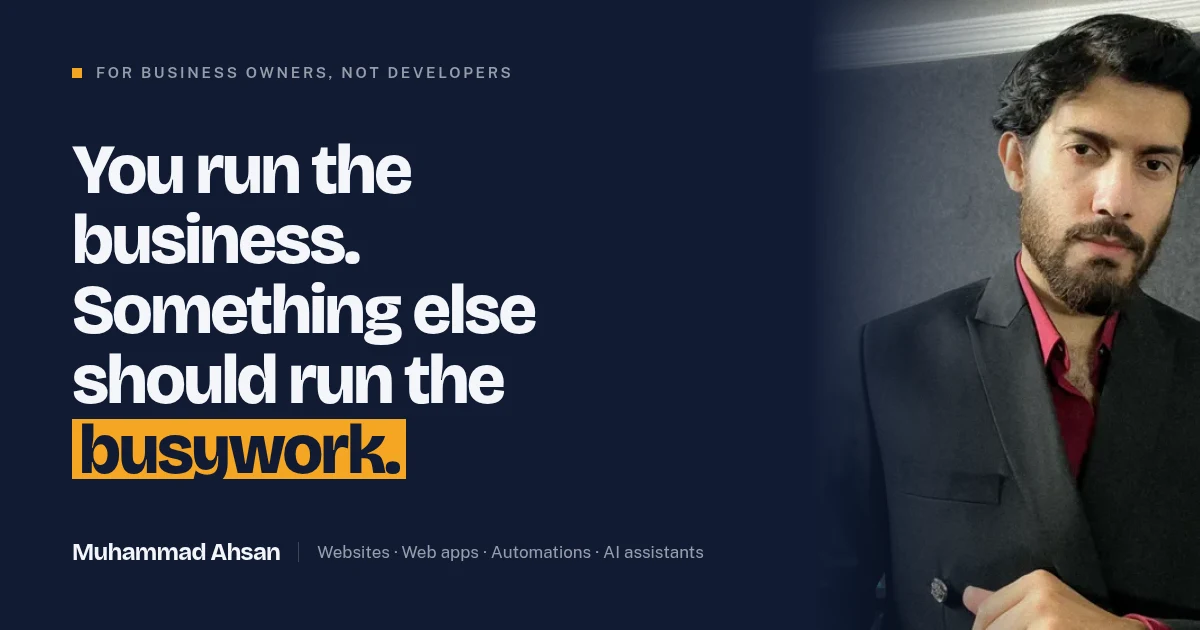
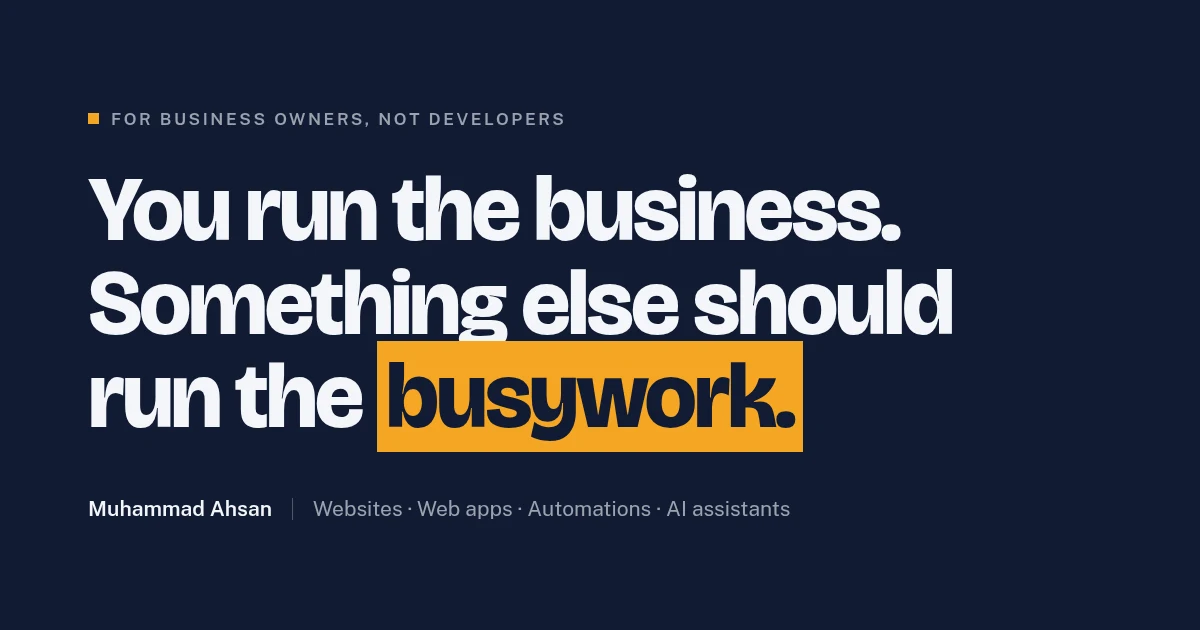
stable

diff --git a/index.html b/index.html
@@ -231,54 +231,83 @@
   <div class="wrap">
     <div class="band-head" data-reveal>
       <p class="sign">Work</p>
-      <h2 class="display">What changed for the business.</h2>
-      <p class="lede">Not which framework was used. That part is my problem, not yours.</p>
+      <h2 class="display">Pick the one that looks like your business.</h2>
+      <p class="lede">Demonstration builds, not client work — a dental practice, a salon, a coffee shop, a restaurant, a knitwear shop. Each one shows how a site for that kind of business handles what actually matters: prices, booking, and the questions customers always ask.</p>
     </div>
 
     <!--
       ─────────────────────────────────────────────────────────────
-      TO ADD A PROJECT: copy this block and fill in the five slots.
-      Drop the <a class="card-link"> line if there's nothing to link to.
+      TO ADD A PROJECT: copy this block and fill in the four slots.
+      Drop the <a class="card-shot"> wrapper if there's no image yet.
       ─────────────────────────────────────────────────────────────
       <article class="card" data-reveal>
-        <span class="tag">INDUSTRY</span>
-        <h3>OUTCOME IN ONE LINE</h3>
-        <dl class="ba">
-          <div><dt>Before</dt><dd>WHAT THEIR DAY LOOKED LIKE</dd></div>
-          <div class="after"><dt>After</dt><dd>WHAT IT LOOKS LIKE NOW</dd></div>
-        </dl>
-        <a class="card-link" href="URL" target="_blank" rel="noopener noreferrer">View the project →</a>
+        <a class="card-shot" href="./work-NAME.webp" data-shot data-caption="PROJECT — WHAT IT IS">
+          <img src="./work-NAME.webp" alt="DESCRIBE WHAT THE SCREENS SHOW" width="1000" height="750" loading="lazy" decoding="async">
+          <span class="zoom">Enlarge</span>
+        </a>
+        <span class="tag">SECTOR</span>
+        <h3>THE DECISION THE DESIGN MAKES</h3>
+        <p class="card-note">ONE SUPPORTING LINE.</p>
       </article>
       ─────────────────────────────────────────────────────────────
     -->
 
     <div class="cards">
       <article class="card" data-reveal>
-        <span class="tag">Food &amp; marketplace</span>
-        <h3>Home cooks got a business, not just a listing</h3>
-        <dl class="ba">
-          <div><dt>Before</dt><dd>Orders, prices and delivery arranged one by one over messages.</dd></div>
-          <div class="after"><dt>After</dt><dd>One app handling bidding, payments and delivery for every chef on it.</dd></div>
-        </dl>
-        <a class="card-link" href="https://github.com/ahsanm7911/homeplate" target="_blank" rel="noopener noreferrer">View HomePlate →</a>
+        <a class="card-shot" href="./work-rivermill.webp" data-shot data-caption="Rivermill Dental Care — demonstration build for a dental practice">
+          <img src="./work-rivermill.webp" alt="Rivermill Dental Care demonstration site, shown on desktop and phone. The homepage opens with the line “It has been a while. That’s all right.” beside an “I’m nervous about this” button, with first-appointment length, price and rating below. Smaller panels show a step-by-step first visit, a nervous-patients page, a price list and the team." width="1000" height="750" loading="lazy" decoding="async">
+          <span class="zoom">Enlarge</span>
+        </a>
+        <span class="tag">Dental practice</span>
+        <h3>Settles the nerves first, then answers the practical bit</h3>
+        <p class="card-note">An “I’m nervous about this” button sits right next to “Book an appointment.”</p>
       </article>
 
       <article class="card" data-reveal>
-        <span class="tag">Tutoring &amp; education</span>
-        <h3>Weekly attendance went from hours to minutes</h3>
-        <dl class="ba">
-          <div><dt>Before</dt><dd>A spreadsheet rebuilt by hand every week, and chased by email.</dd></div>
-          <div class="after"><dt>After</dt><dd>A few clicks, and the register is done and shareable.</dd></div>
-        </dl>
+        <a class="card-shot" href="./work-mara.webp" data-shot data-caption="MARA Hair Studio — demonstration build for a hair salon">
+          <img src="./work-mara.webp" alt="MARA Hair Studio demonstration site, shown on desktop and phone. The homepage reads “Colour that still looks right on week six” beside a photograph of a client, with booking and prices buttons. Smaller panels show a full price list, stylist profiles, a gallery and a booking form." width="1000" height="750" loading="lazy" decoding="async">
+          <span class="zoom">Enlarge</span>
+        </a>
+        <span class="tag">Hair salon</span>
+        <h3>Prices published, so nobody has to ring to ask</h3>
+        <p class="card-note">The full price list, the stylists and the booking form, all on one page.</p>
       </article>
 
       <article class="card" data-reveal>
-        <span class="tag">Data &amp; reporting</span>
-        <h3>Numbers that non-finance staff could read</h3>
-        <dl class="ba">
-          <div><dt>Before</dt><dd>Raw stock data nobody outside finance could interpret.</dd></div>
-          <div class="after"><dt>After</dt><dd>A dashboard the whole team reads without asking what it means.</dd></div>
-        </dl>
+        <a class="card-shot" href="./work-groundfloor.webp" data-shot data-caption="Ground Floor Coffee — demonstration build for a coffee shop">
+          <img src="./work-groundfloor.webp" alt="Ground Floor Coffee demonstration site, shown on desktop and phone. The homepage reads “Your coffee, ready in four minutes” next to a printed order slip, with an open-now banner showing the current wait. Smaller panels show the menu, the beans, the room and a visit-and-order page." width="1000" height="750" loading="lazy" decoding="async">
+          <span class="zoom">Enlarge</span>
+        </a>
+        <span class="tag">Coffee shop</span>
+        <h3>Order on the walk over, skip the queue</h3>
+        <p class="card-note">The current wait is on the page before anyone taps a thing.</p>
+      </article>
+
+      <article class="card" data-reveal>
+        <a class="card-shot" href="./work-sumac.webp" data-shot data-caption="SUMAC — demonstration build for a restaurant">
+          <img src="./work-sumac.webp" alt="SUMAC restaurant demonstration site, shown on desktop and phone. The homepage reads “Everything comes to the middle of the table” over a photograph of a charcoal grill, with book-a-table and read-the-menu buttons. Smaller panels show the menu, the kitchen, reviews and reservations." width="994" height="746" loading="lazy" decoding="async">
+          <span class="zoom">Enlarge</span>
+        </a>
+        <span class="tag">Restaurant</span>
+        <h3>The menu is the page, not a PDF to download</h3>
+        <p class="card-note">Booking a table takes about thirty seconds from the same screen.</p>
+      </article>
+
+      <article class="card" data-reveal>
+        <a class="card-shot" href="./work-loom.webp" data-shot data-caption="LOOM Knitwear — demonstration build for a small shop">
+          <img src="./work-loom.webp" alt="LOOM Knitwear demonstration store, shown on desktop and phone. The homepage reads “Merino knitwear, made two hundred at a time” beside a photograph of a jumper, with a banner counting the stock left in the current run. Smaller panels show the four pieces, a fit and sizing table, how it is made, and reviews and returns." width="1000" height="750" loading="lazy" decoding="async">
+          <span class="zoom">Enlarge</span>
+        </a>
+        <span class="tag">Small shop</span>
+        <h3>Real measurements, so fewer things come back</h3>
+        <p class="card-note">Live stock counts, a published fit table, and add to bag without an account.</p>
+      </article>
+
+      <article class="card card--ink" data-reveal>
+        <span class="tag">Built and running</span>
+        <h3>A working marketplace for home cooks</h3>
+        <p class="card-note">Not a demonstration — a full app handling bidding, payments and delivery for every cook on it. The code is public if you'd like a look.</p>
+        <a class="card-link" href="https://github.com/ahsanm7911/homeplate" target="_blank" rel="noopener noreferrer">View HomePlate on GitHub →</a>
       </article>
     </div>
   </div>
@@ -397,7 +426,6 @@
         </ul>
 
         <div class="who">
-          <img src="portrait.webp" alt="Muhammad Ahsan" width="72" height="72" loading="lazy" decoding="async">
           <p><strong>You'll be talking to me.</strong><br>Not a sales team, not an account manager.</p>
         </div>
       </div>
@@ -489,6 +517,16 @@
     </div>
   </div>
 </footer>
+
+<!-- Enlarged project view. Populated by main.js; without JS the card
+     links open the .webp directly, so this stays empty and unused. -->
+<dialog class="shot-dialog" id="shot-dialog" aria-label="Project preview">
+  <img class="shot-img" id="shot-img" alt="">
+  <p class="shot-caption" id="shot-caption"></p>
+  <button type="button" class="shot-close" id="shot-close" aria-label="Close preview">
+    <svg width="18" height="18" viewBox="0 0 24 24" fill="none" stroke="currentColor" stroke-width="2.4" stroke-linecap="round" aria-hidden="true"><path d="M6 6l12 12M18 6L6 18"/></svg>
+  </button>
+</dialog>
 
 <script src="main.js" defer></script>
 </body>

diff --git a/styles.css b/styles.css
@@ -404,18 +404,63 @@ h3 { font-family: var(--display); font-weight: 700; letter-spacing: -0.02em; lin
   border-radius: var(--r-pill);
   padding: 5px 12px;
 }
-.card h3 { font-size: 1.3rem; }
-.ba { display: grid; gap: 10px; }
-.ba div { display: grid; grid-template-columns: 62px minmax(0, 1fr); gap: 12px; align-items: baseline; }
-.ba dt {
-  font-size: 0.66rem;
-  font-weight: 600;
-  letter-spacing: 0.14em;
-  text-transform: uppercase;
-  color: var(--ink-faint);
+.card h3 { font-size: 1.25rem; }
+.card-note { font-size: 0.93rem; line-height: 1.55; color: var(--ink-soft); }
+
+/* The plate. Bleeds to the card's inner edges via negative margins so the
+   card border itself becomes the frame — the showcase images already carry
+   their own dark matting, so a second mat would be one accessory too many. */
+.card-shot {
+  position: relative;
+  display: block;
+  margin: -26px -24px 4px;
+  border-bottom: 1px solid var(--rule);
+  border-radius: var(--r-md) var(--r-md) 0 0;
+  overflow: hidden;
+  background: var(--paper-2);
 }
-.ba dd { font-size: 0.93rem; line-height: 1.5; }
-.ba .after dd { font-weight: 500; }
+.card-shot img {
+  width: 100%;
+  height: auto;
+  aspect-ratio: 4 / 3;
+  object-fit: cover;
+}
+.zoom {
+  position: absolute;
+  right: 10px;
+  bottom: 10px;
+  background: rgba(252, 251, 249, 0.94);
+  color: var(--ink);
+  font-size: 0.62rem;
+  font-weight: 600;
+  letter-spacing: 0.13em;
+  text-transform: uppercase;
+  padding: 5px 11px;
+  border-radius: var(--r-pill);
+}
+/* Deliberately always visible rather than hover-only: half these visitors
+   are on a phone, and the ones who aren't shouldn't have to discover that
+   the picture does something. */
+@media (hover: hover) and (prefers-reduced-motion: no-preference) {
+  .zoom { transition: background 0.18s ease; }
+}
+@media (hover: hover) {
+  .card-shot:hover .zoom,
+  .card-shot:focus-visible .zoom { background: var(--amber); }
+}
+
+/* HomePlate. Ink rather than paper because it is a different kind of item —
+   really built and running, not a demonstration — and the change of ground
+   says so without a badge saying so. */
+.card--ink {
+  background: var(--ink);
+  border-color: var(--ink);
+  color: var(--on-ink);
+  justify-content: center;
+}
+.card--ink .tag { color: var(--on-ink-soft); border-color: var(--rule-ink); }
+.card--ink .card-note { color: var(--on-ink-soft); }
+.card--ink :focus-visible { outline-color: var(--amber); }
 .card-link {
   margin-top: auto;
   padding-top: 6px;
@@ -426,6 +471,50 @@ h3 { font-family: var(--display); font-weight: 700; letter-spacing: -0.02em; lin
   padding-bottom: 1px;
 }
 .card-link:hover { border-bottom-color: var(--ink); }
+.card--ink .card-link { margin-top: 6px; }
+.card--ink .card-link:hover { border-bottom-color: var(--on-ink); }
+
+/* ── ENLARGED PLATE ── */
+.shot-dialog {
+  margin: auto;
+  border: 0;
+  /* Width is capped against viewport HEIGHT as well, using the plates' 4:3
+     ratio, so the box always matches the visible image exactly — that is what
+     lets the close button sit flush to the plate's corner at any window size. */
+  max-width: min(1080px, 94vw, 104vh);
+  max-height: 96vh;
+  padding: 44px 0 0;
+  background: transparent;
+  overflow: visible;
+}
+.shot-dialog::backdrop { background: rgba(16, 27, 51, 0.9); }
+.shot-img {
+  width: 100%;
+  height: auto;
+  border-radius: var(--r-md);
+}
+.shot-caption {
+  margin-top: 12px;
+  text-align: center;
+  font-size: 0.88rem;
+  color: var(--on-ink-soft);
+}
+.shot-close {
+  position: absolute;
+  top: 0;
+  right: 0;
+  display: grid;
+  place-items: center;
+  width: 34px;
+  height: 34px;
+  border: 0;
+  border-radius: 50%;
+  background: var(--paper);
+  color: var(--ink);
+  cursor: pointer;
+}
+.shot-close:hover { background: var(--amber); }
+.shot-dialog :focus-visible { outline: 2px solid var(--amber); outline-offset: 3px; }
 
 /* ── FIT ── */
 .fit {
@@ -501,19 +590,9 @@ h3 { font-family: var(--display); font-weight: 700; letter-spacing: -0.02em; lin
 .reassure svg { flex: none; margin-top: 4px; color: var(--ink); }
 
 .who {
-  display: flex;
-  align-items: center;
-  gap: 18px;
   margin-top: 32px;
   padding-top: 28px;
   border-top: 1px solid var(--rule);
-}
-.who img {
-  width: 72px;
-  height: 72px;
-  border-radius: 50%;
-  object-fit: cover;
-  flex: none;
 }
 .who p { font-size: 0.94rem; color: var(--ink-soft); line-height: 1.55; }
 .who strong { color: var(--ink); font-weight: 600; }

diff --git a/main.js b/main.js
@@ -149,6 +149,55 @@
     }
   });
 
+  /* ── ENLARGE ───────────────────────────────────────────── */
+  /* The cards are ~380px wide; the detail in each plate is the whole point
+     of showing it. Native <dialog> gives us the focus trap, Esc and inert
+     background for free. If showModal is missing the anchor's own href
+     opens the image directly, so this stays purely additive. */
+  var shotDialog = document.getElementById('shot-dialog');
+  var shots = document.querySelectorAll('[data-shot]');
+
+  if (shotDialog && shots.length && typeof shotDialog.showModal === 'function') {
+    var shotImg = document.getElementById('shot-img');
+    var shotCap = document.getElementById('shot-caption');
+    var shotClose = document.getElementById('shot-close');
+    var opener = null;
+
+    shots.forEach(function (shot) {
+      shot.addEventListener('click', function (event) {
+        event.preventDefault();
+        var img = shot.querySelector('img');
+        opener = shot;
+        shotImg.src = shot.getAttribute('href');
+        shotImg.alt = img ? img.alt : '';
+        shotCap.textContent = shot.dataset.caption || '';
+        shotDialog.showModal();
+      });
+    });
+
+    shotClose.addEventListener('click', function () { shotDialog.close(); });
+
+    /* Anything outside the image itself closes — that covers both the real
+       backdrop and the dialog's own empty area around the plate. */
+    shotDialog.addEventListener('click', function (event) {
+      if (event.target === shotImg || event.target.closest('.shot-close')) return;
+      var box = shotImg.getBoundingClientRect();
+      var inside = event.clientX >= box.left && event.clientX <= box.right &&
+                   event.clientY >= box.top && event.clientY <= box.bottom;
+      if (!inside) shotDialog.close();
+    });
+
+    /* <dialog> restores focus itself, but that runs after this event and can
+       land on <body> when the dialog was opened programmatically. Re-assert on
+       the next frame so the card that opened it always gets focus back. */
+    shotDialog.addEventListener('close', function () {
+      if (!opener) return;
+      var last = opener;
+      opener = null;
+      window.requestAnimationFrame(function () { last.focus(); });
+    });
+  }
+
   /* ── REVEAL ────────────────────────────────────────────── */
   var targets = document.querySelectorAll('[data-reveal]');
 
